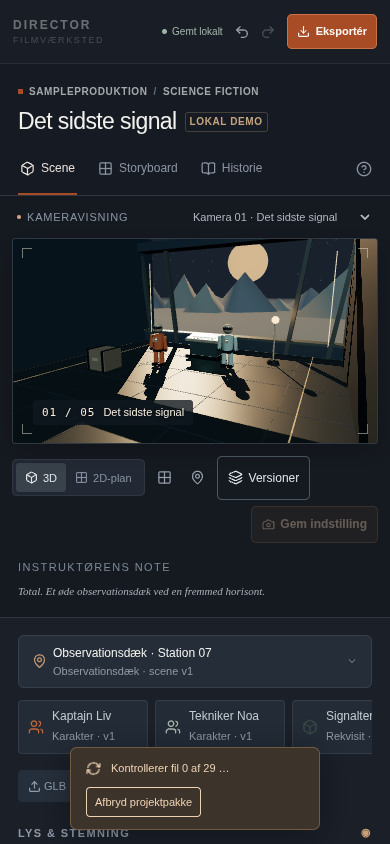
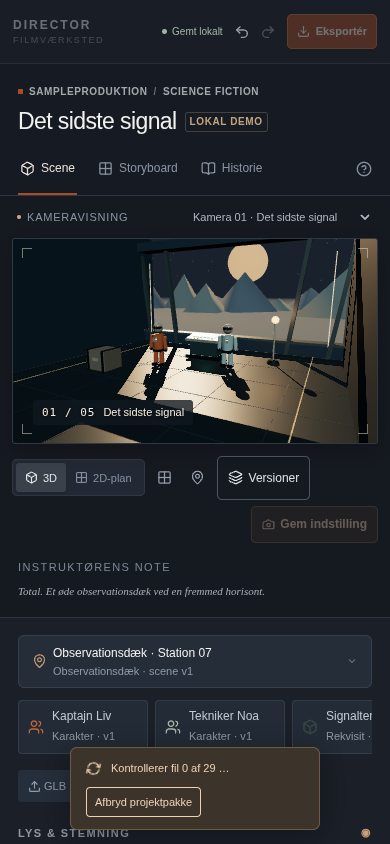
fix(director): wait for project import before opening export actions

Changed region(s): [[0.7385, 0.0, 0.9846, 0.0616]]

diff --git a/apps/director/src/components/DirectorEditor.tsx b/apps/director/src/components/DirectorEditor.tsx
@@ -1020,6 +1020,7 @@ export default function DirectorEditor({
             </span>
             <button
               className="button primary"
+              disabled={!!busy}
               onClick={() => setModal("export")}
             >
               <Download size={15} />

diff --git a/checkpoints/director-20-final-verification.md b/checkpoints/director-20-final-verification.md
@@ -5,3 +5,7 @@ Testskærpelse før samlet integration: 2D-planens optagelsestest venter nu på 
 Den tidligere ZIP-gates kontrollerede worker-startfejl sammenlignes nu med appens forståelige danske fejltekst, som D22 tilføjede, frem for den syntetiske interne fejlstreng. Kontrol af bevaret projekt, native worker, oprydning, ZIP-v1/v2 og uændrede semantiske felter er bevaret.
 
 Verificeret: plan-forløb og ZIP-forløb er grønne i Chromium, Firefox og WebKit på produktionsbuildet med D22. Planerne indeholder det nye immutable shot og den flyttede figur; de aktuelle pixelmålinger ligger i reports/director/*-plan-frame-diagnostic.json. Hele Director-gaterækken køres efterfølgende på samme build, inklusive rigtige render-, PCM-, SIGKILL- og recoveryforløb. Den endelige gateoversigt tilføjes, når alle kommandoer er afsluttet.
+
+Slutgaten fandt også, at en import med samme titel og revisionsnummer kan lade en test læse den forrige gemte version, mens den nye worker endnu arbejder. Eksportarkivets helper venter nu på den importerede versions fulde indholdshash, og hovedknappen Eksportér er inaktiv under en igangværende operation, så dialogen ikke åbnes midt i projektudskiftning. Den store JSON-gate kontrollerer den faktiske disabled-tilstand under en tilbageholdt native workerrespons og normal enabled-tilstand efter afbrydelse. Recoveryknappen ved lagringsfejl er fortsat tilgængelig. Den danske vejledning præciserer også renderforespørgslens eksisterende 64 MiB-grænse, som er forskellig fra projektimportens 150 MiB.
+
+Den afgrænsede optaget-tilstand er verificeret i nyt produktionsbuild samt i seks komplette browserforløb: eksportarkiv og stor JSON-gendannelse i hver af Chromium, Firefox og WebKit. Eksportarkivet producerer og downloader rigtige MP4-filer, kontrollerer manifest-/filmhash og tester sene jobresponser. JSON-forløbene kontrollerer både disabled/enabled og sikker afbrydelse. Tilknyttede responsive axe-scans og pageerror-kontroller er grønne.

diff --git a/docs/director.md b/docs/director.md
@@ -59,7 +59,7 @@ DIRECTOR_LOCAL_RENDER=1 pnpm dev:director
 
 Serveren skal forblive bundet til localhost. Denne profil er ikke et offentligt renderendepunkt. Eksporten låser et projektsnapshot og validerer den færdige films opløsning, fps, varighed, lyd og hash. **Tidligere eksporter** viser samme produktions lokale jobs; en gammel film bliver ved med at høre til sin oprindelige klipning, selv efter nye ændringer. [Opsætning og recovery](director-local-render.md), [faktisk værktøjskontrol](director-render-profile.md) og [eksportarkiv](director-export-archive.md).
 
-Den aktuelle filmprofil er **1280×720, 24 fps, højst 30 shots og 120 sekunder**. MP4 er timede stillbilleder kombineret med egne videoklip og lyd. Bevægelser i 3D-editoren bliver ikke til kontinuerlig 3D-animation. Browserafspilning er en interaktiv gennemgang; den validerede MP4 er eksportresultatet. Loudness måles, men normaliseres ikke automatisk til en bestemt LUFS-værdi.
+Den aktuelle filmprofil er **1280×720, 24 fps, højst 30 shots og 120 sekunder**. Den samlede renderforespørgsel med indlejrede medier og versioner må højst være **64 MiB**; dette er en særskilt grænse fra projektimportens 150 MiB. En større projektbackup kan derfor åbnes og bevares uden at kunne MP4-eksporteres i denne profil. MP4 er timede stillbilleder kombineret med egne videoklip og lyd. Bevægelser i 3D-editoren bliver ikke til kontinuerlig 3D-animation. Browserafspilning er en interaktiv gennemgang; den validerede MP4 er eksportresultatet. Loudness måles, men normaliseres ikke automatisk til en bestemt LUFS-værdi.
 
 ## Hvis noget går galt
 
